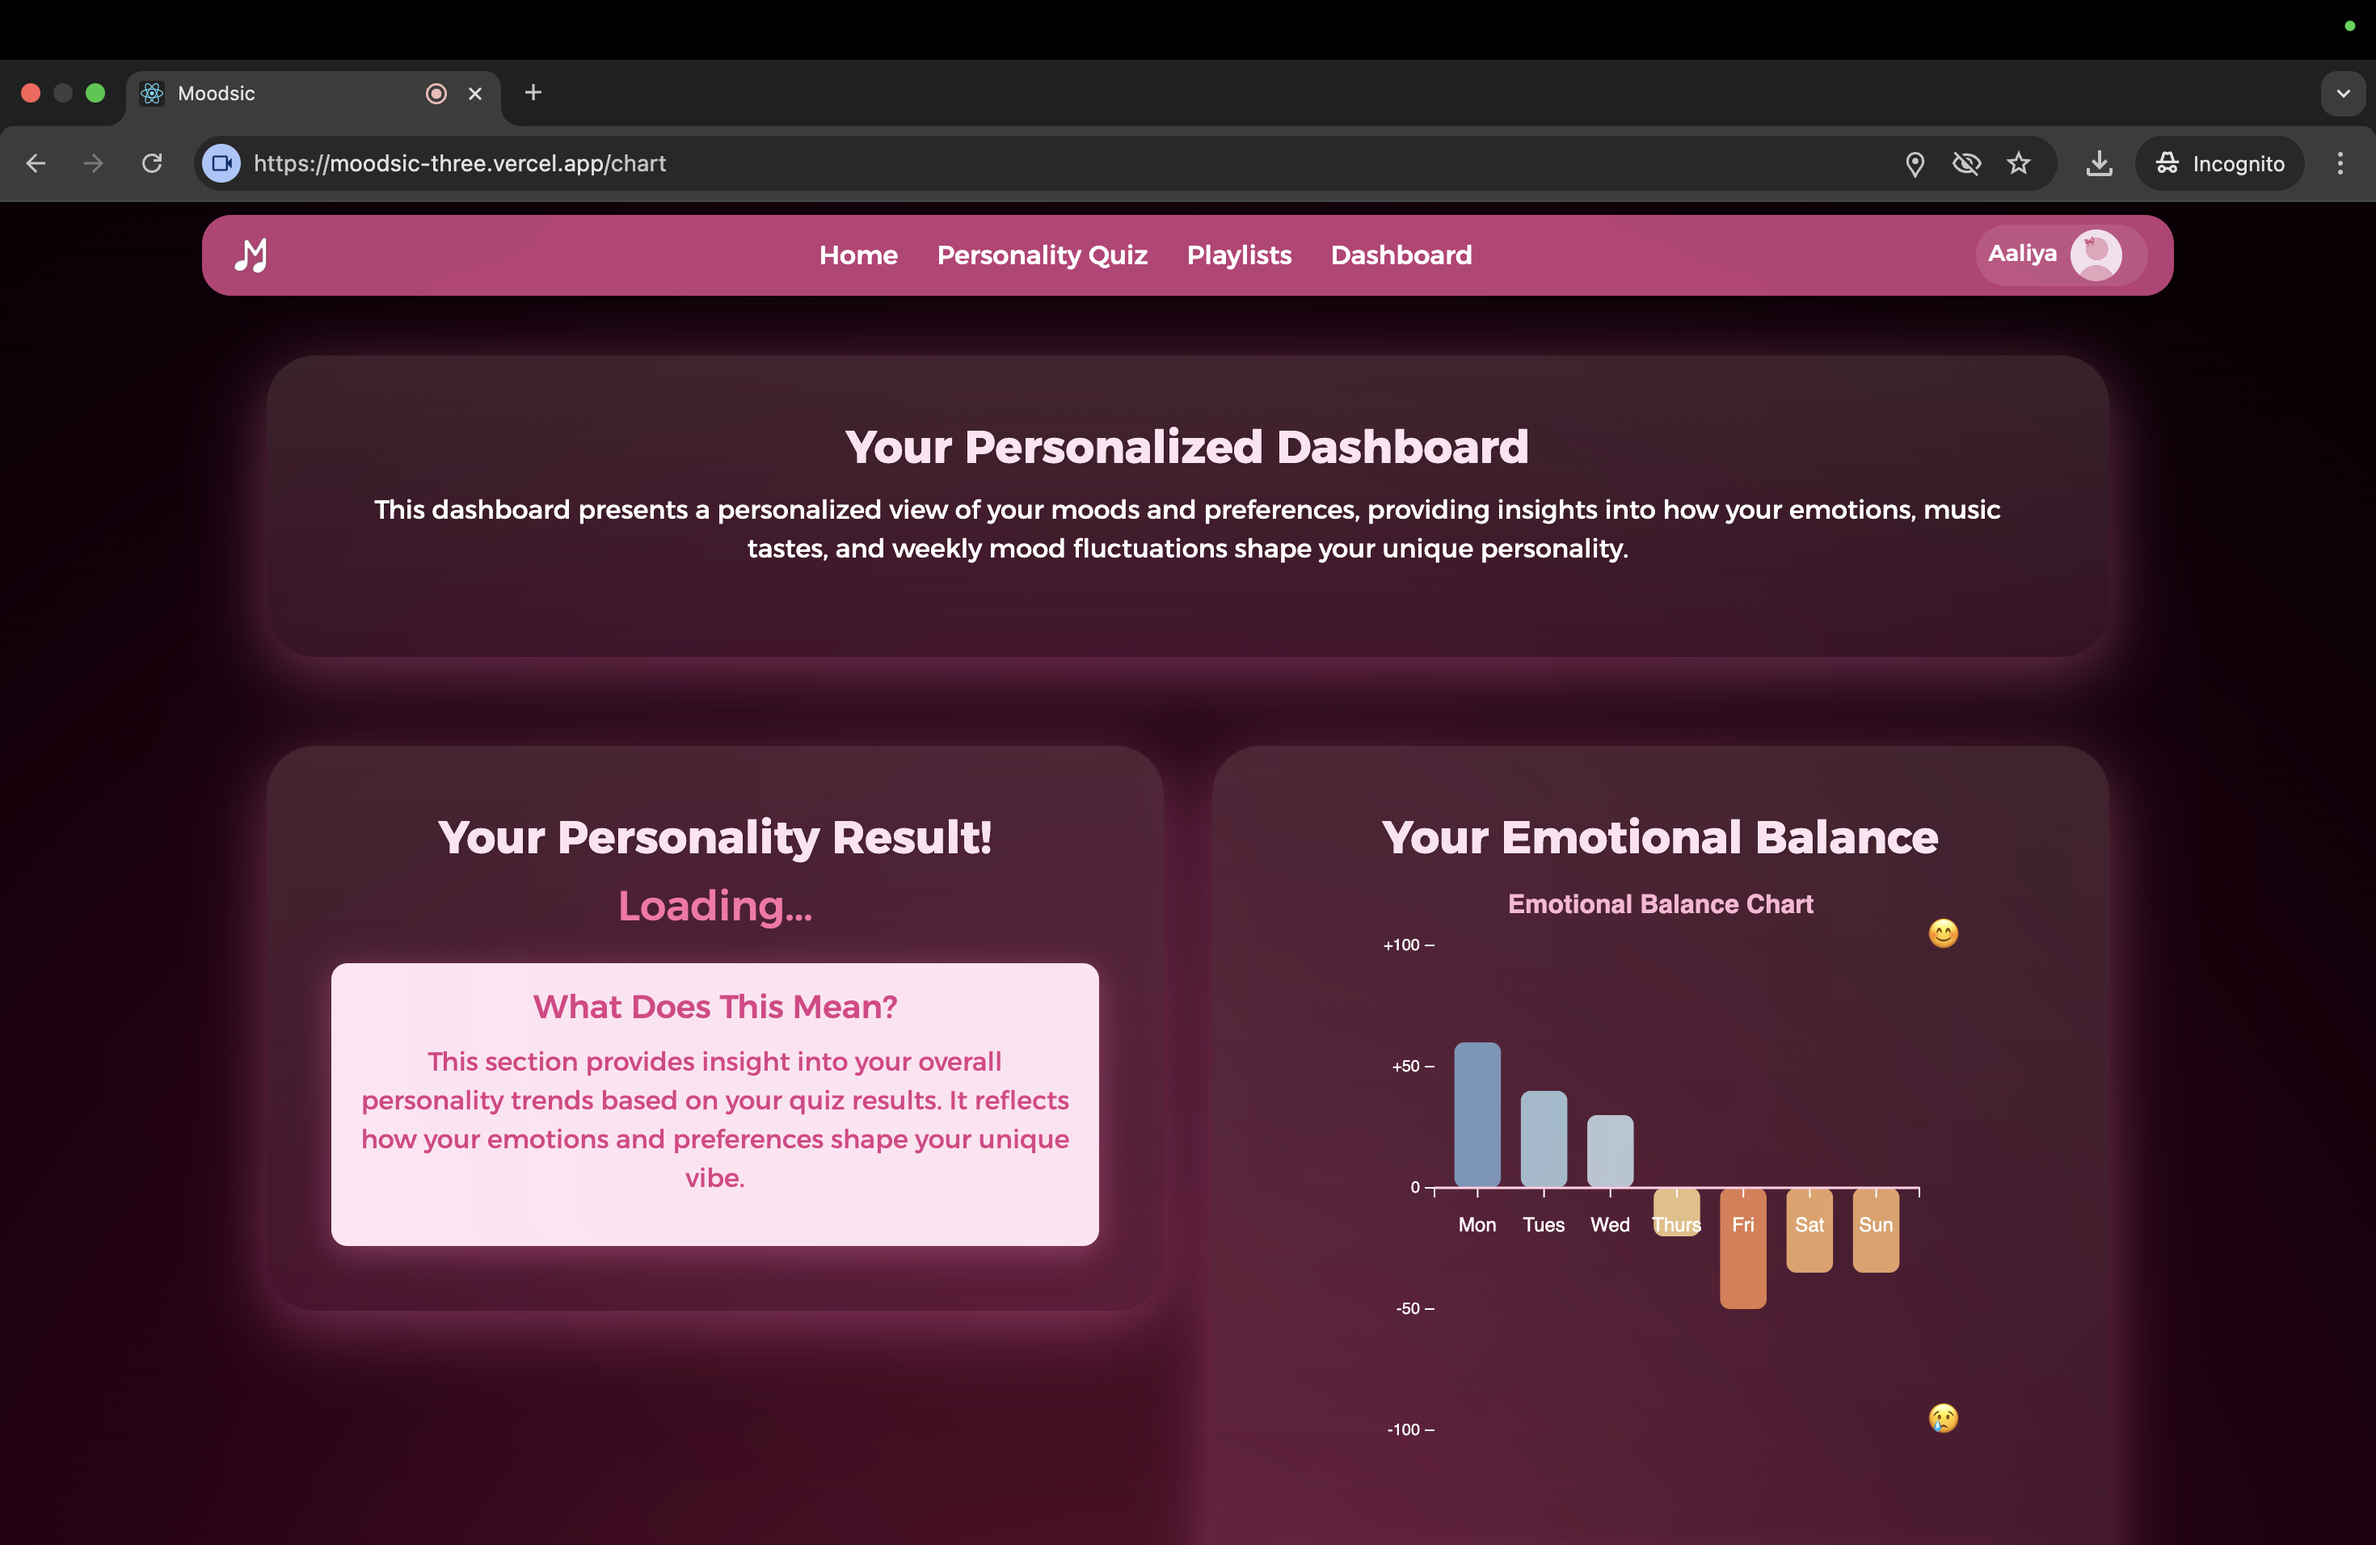
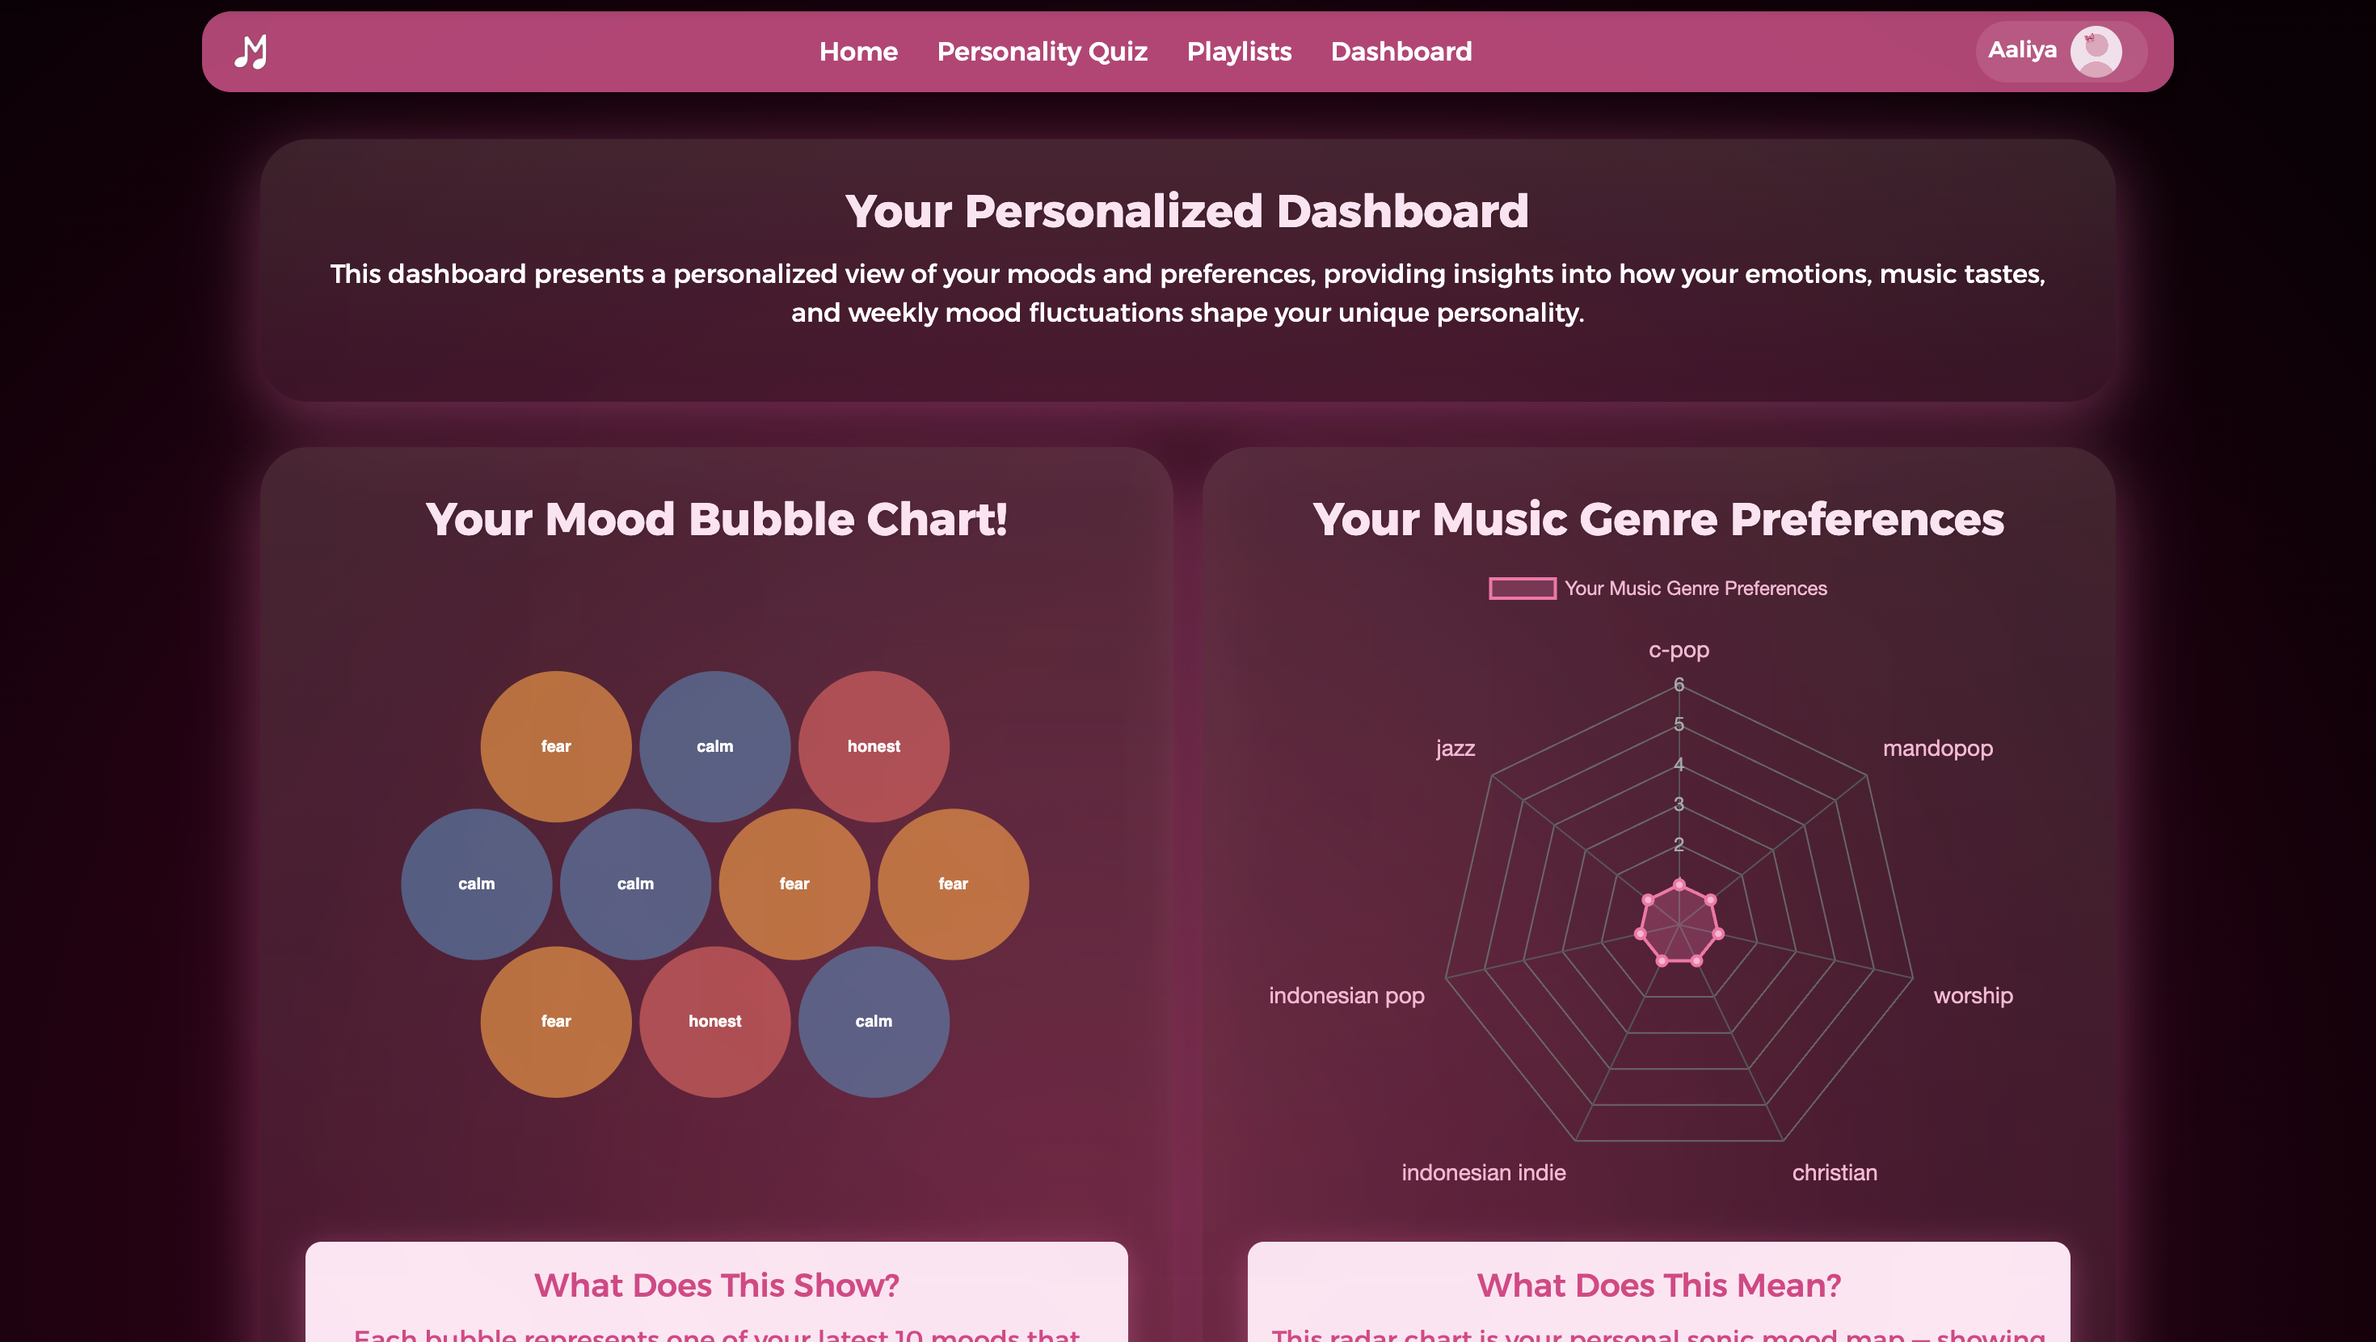
last min changes

diff --git a/frontend/src/pages/Chart.jsx b/frontend/src/pages/Chart.jsx
@@ -212,103 +212,6 @@ export default function ChartPage() {
     fetchPersonality();
   }, []);
 
-
-  // -------------------- Diverging Bar Chart --------------------
-  // useEffect(() => {
-  //   const emotionData = [
-  //     { emotion: "Mon", value: 60 },
-  //     { emotion: "Tues", value: 40 },
-  //     { emotion: "Wed", value: 30 },
-  //     { emotion: "Thurs", value: -20 },
-  //     { emotion: "Fri", value: -50 },
-  //     { emotion: "Sat", value: -35 },
-  //     { emotion: "Sun", value: -35 },
-  //   ];
-
-  //   const width = 400;
-  //   const height = 400;
-  //   const margin = { top: 40, right: 40, bottom: 60, left: 60 };
-
-  //   d3.select(barChartRef.current).selectAll("*").remove();
-
-  //   const svg = d3.select(barChartRef.current)
-  //     .attr("width", width)
-  //     .attr("height", height)
-  //     .attr("viewBox", [0, 0, width, height])
-  //     .attr("style", "max-width: 100%; height: auto; font: 12px sans-serif;");
-
-  //   const x = d3.scaleBand()
-  //     .domain(emotionData.map(d => d.emotion))
-  //     .range([margin.left, width - margin.right])
-  //     .padding(0.3);
-
-  //   const y = d3.scaleLinear()
-  //     .domain([-100, 100])
-  //     .range([height - margin.bottom, margin.top]);
-
-  //   const color = d3.scaleDiverging()
-  //     .domain([-100, 0, 100])
-  //     .interpolator(d3.interpolateRdYlBu);
-
-  //   svg.append("g")
-  //     .selectAll("rect")
-  //     .data(emotionData)
-  //     .join("rect")
-  //     .attr("x", d => x(d.emotion))
-  //     .attr("y", d => y(Math.max(0, d.value)))
-  //     .attr("height", d => Math.abs(y(d.value) - y(0)))
-  //     .attr("width", x.bandwidth())
-  //     .attr("fill", d => color(d.value))
-  //     .attr("rx", 6)
-  //     .attr("ry", 6)
-  //     .attr("opacity", 0.85);
-
-  //   svg.append("g")
-  //     .attr("transform", `translate(0,${y(0)})`)
-  //     .call(d3.axisBottom(x))
-  //     .selectAll("text")
-  //     .attr("dy", "1.5em")
-  //     .attr("font-size", "12px");
-
-  //   svg.append("g")
-  //     .attr("transform", `translate(${margin.left},0)`)
-  //     .call(d3.axisLeft(y).ticks(5).tickFormat(d => d > 0 ? `+${d}` : d))
-  //     .call(g => g.select(".domain").remove());
-
-  //   svg.append("line")
-  //     .attr("x1", margin.left)
-  //     .attr("x2", width - margin.right)
-  //     .attr("y1", y(0))
-  //     .attr("y2", y(0))
-  //     .attr("stroke", "#ffb6d5")
-  //     .attr("stroke-width", 2)
-  //     .attr("opacity", 0.6);
-
-  //   svg.append("text")
-  //     .attr("x", width - margin.right + 5)
-  //     .attr("y", margin.top)
-  //     .attr("text-anchor", "start")
-  //     .attr("font-size", "20px")
-  //     .text("😊");
-
-  //   svg.append("text")
-  //     .attr("x", width - margin.right + 5)
-  //     .attr("y", height - margin.bottom)
-  //     .attr("text-anchor", "start")
-  //     .attr("font-size", "20px")
-  //     .text("😢");
-
-  //   svg.append("text")
-  //     .attr("x", width / 2)
-  //     .attr("y", margin.top / 2)
-  //     .attr("text-anchor", "middle")
-  //     .attr("font-size", "16px")
-  //     .attr("font-weight", "bold")
-  //     .attr("fill", "#ffb6d5")
-  //     .text("Emotional Balance Chart");
-
-  // }, []);
-
   // -------------------- Radar Chart --------------------
   const fallbackLabels = ["pop", "rock", "jazz", "hip hop", "electronic", "classical"];
   const fallbackValues = [0, 0, 0, 0, 0, 0];
@@ -358,20 +261,6 @@ export default function ChartPage() {
           fluctuations shape your unique personality.
         </p>
       </div>
-
-
-      {/* <div className="chart-mood-card">
-        <h1>Your Emotional Balance</h1>
-        <svg ref={barChartRef}></svg>
-        <div className="chart-explanation">
-          <h3>What Does This Show?</h3>
-          <p>
-            This diverging bar chart visualizes the balance between your positive and negative emotions.
-            Bars going upward represent positive emotions like happiness and calmness,
-            while downward bars reflect negative emotions such as sadness or tiredness.
-          </p>
-        </div>
-      </div> */}
 
       <div className="chart-mood-card">
         <h1>Your Mood Bubble Chart!</h1>

diff --git a/backend/server.js b/backend/server.js
@@ -156,7 +156,7 @@ const model = gemini.getGenerativeModel({
 
 // --- WORD ENDPOINTS ---
 app.post("/generate-words", async (req, res) => {
-  console.log("🧠 Received request to /generate-words...");
+  console.log("Received request to /generate-words...");
   try {
     const result = await model.generateContent(wordPrompt);
     const jsonText = result.response.text();
@@ -165,13 +165,13 @@ app.post("/generate-words", async (req, res) => {
     const parsed = JSON.parse(jsonText);
     if (parsed.words && Array.isArray(parsed.words)) {
       allWords = parsed.words;
-      console.log(`✅ Stored ${allWords.length} generated words.`);
+      console.log(`Stored ${allWords.length} generated words.`);
       return res.status(200).json({ allWords });
     }
 
     throw new Error("Gemini response did not include a valid 'words' array.");
   } catch (error) {
-    console.error("❌ Error in /generate-words:", error);
+    console.error("Error in /generate-words:", error);
     res.status(500).json({
       error: "Failed to generate word list.",
       details: error.message || error,

diff --git a/frontend/src/pages/Home.jsx b/frontend/src/pages/Home.jsx
@@ -238,7 +238,7 @@ function Home() {
                 "Failed to generate vibe & playlist:",
                 err.response?.data || err
             );
-            toast.error("❌ Something went wrong while generating your vibe. Try again!");
+            toast.error("Something went wrong while generating your vibe. Try again!");
         }
     });
 

diff --git a/frontend/src/pages/HomeUI.jsx b/frontend/src/pages/HomeUI.jsx
@@ -107,7 +107,7 @@ export default function HomeUI({
               id="mood-input"
               type="text"
               placeholder="e.g., happy, calm, nostalgic, pumped up..."
-              value={mood}
+              // value={mood}
               onChange={(e) => setMood(e.target.value)}
             />
           </div>

diff --git a/README.md b/README.md
@@ -8,6 +8,10 @@ G4 Group 15
 ## Website Link
 http://moodsic-three.vercel.app
 
+Without Spotify premium, the following will not work: 
+1) Use My Spotify Learning History
+2) Preview Function during Playlist Generation
+
 ---
 
 ## Group Members
